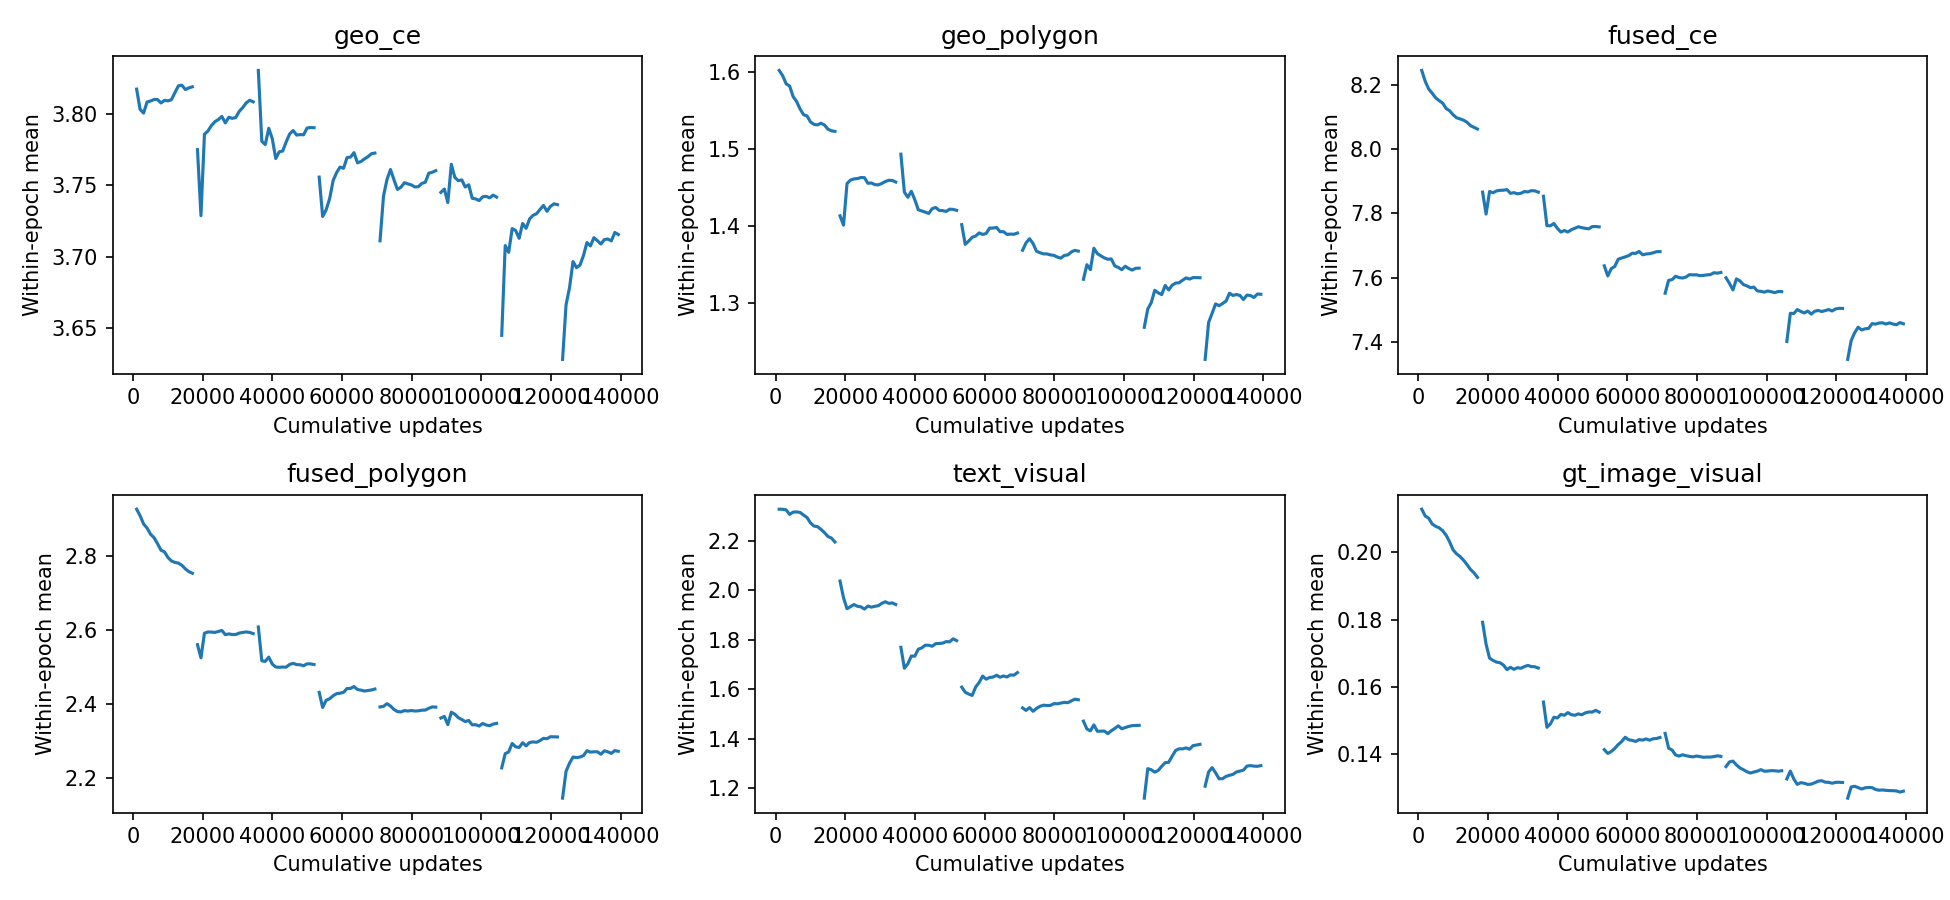
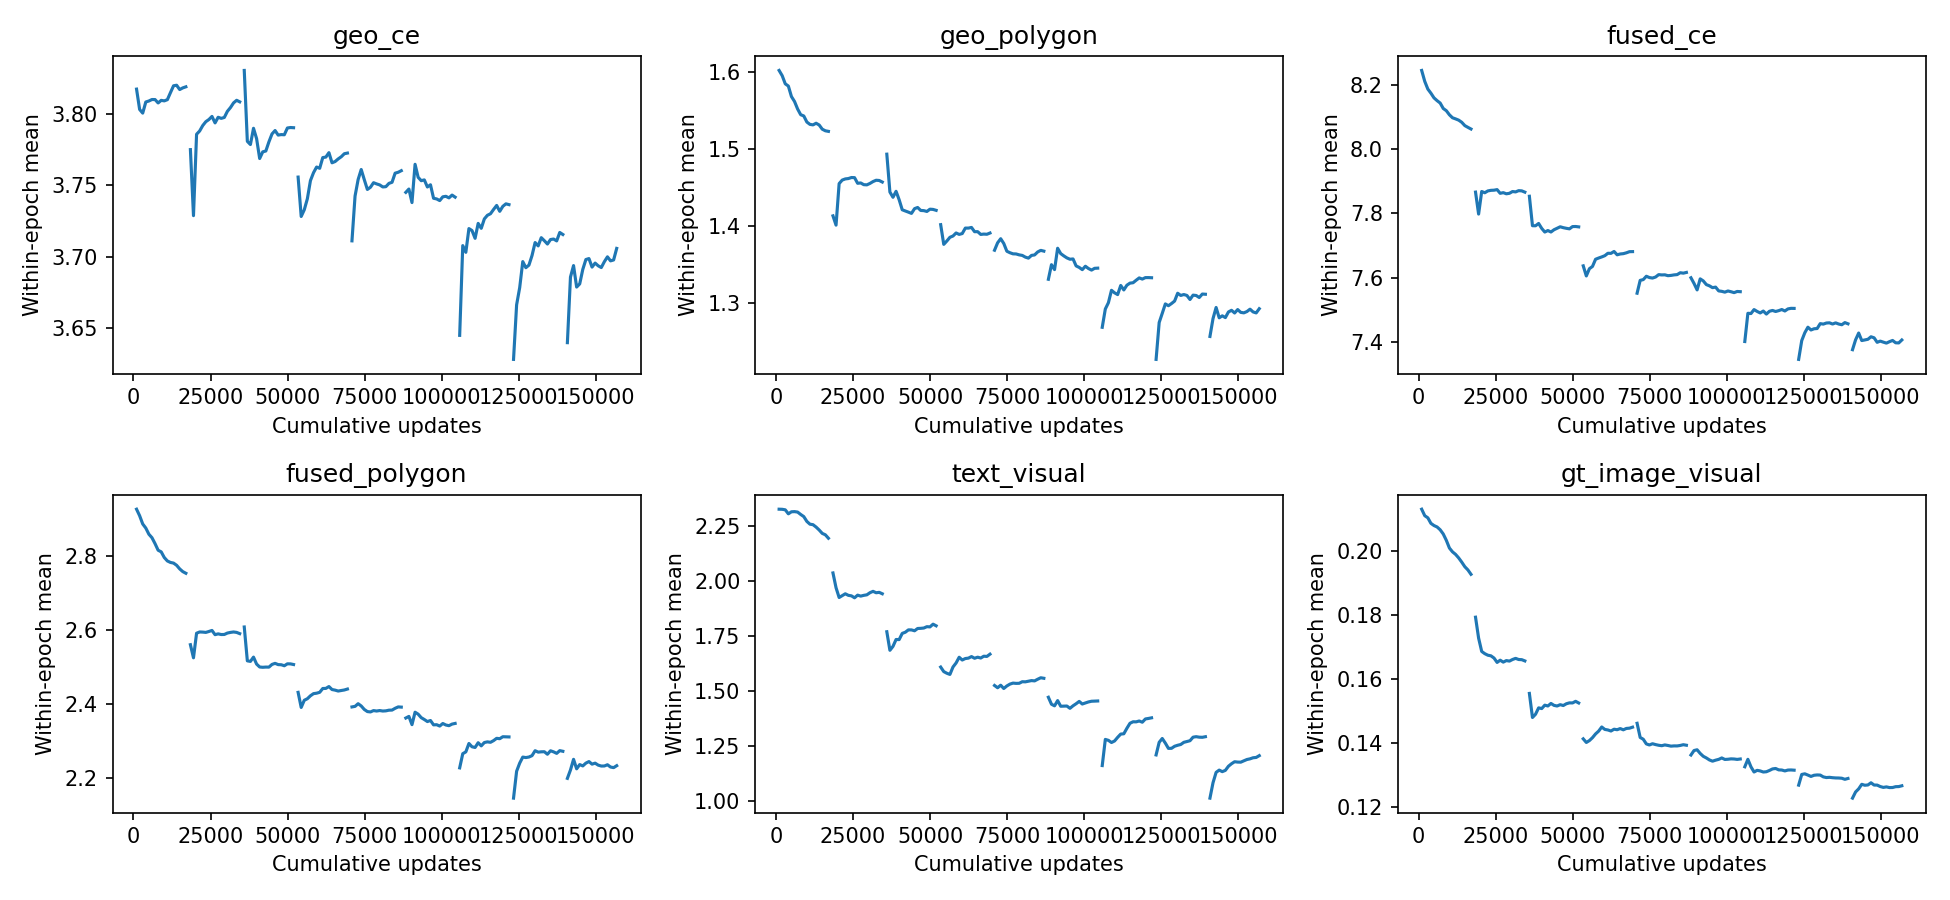
reports(v3): record completed ninth epoch and continued training

diff --git a/reports/unified_pgvb/v3_full_training/REPORT_zh.md b/reports/unified_pgvb/v3_full_training/REPORT_zh.md
@@ -2,7 +2,7 @@
 
 完整TRAIN输入21878条；本阶段拟合17473条、物理目标留出4405条，物理分组重叠0。初始化V2曾使用TRAIN，内部留出不是完全未见泛化。
 
-当前已完成完整Epoch：8；训练结束：False。
+当前已完成完整Epoch：9；训练结束：False。
 
 Geometry和轻量视觉模块训练，BERT/SigLIP2冻结并读取缓存；seed42，原权重保留。四小时累计训练预算，至少三轮后连续两轮相对Loss改善<0.5%提前停止。未修改Stop=0.3、1mm守卫或Horizon。
 
@@ -18,6 +18,7 @@ Geometry和轻量视觉模块训练，BERT/SigLIP2冻结并读取缓存；seed42
 |6|17473|12.479380|762.26|0.144|
 |7|17473|12.383111|757.38|0.144|
 |8|17473|12.286377|766.43|0.144|
+|9|17473|12.195989|776.39|0.144|
 
 ![训练Loss](training_loss.png)
 ![Loss分量](loss_components.png)
